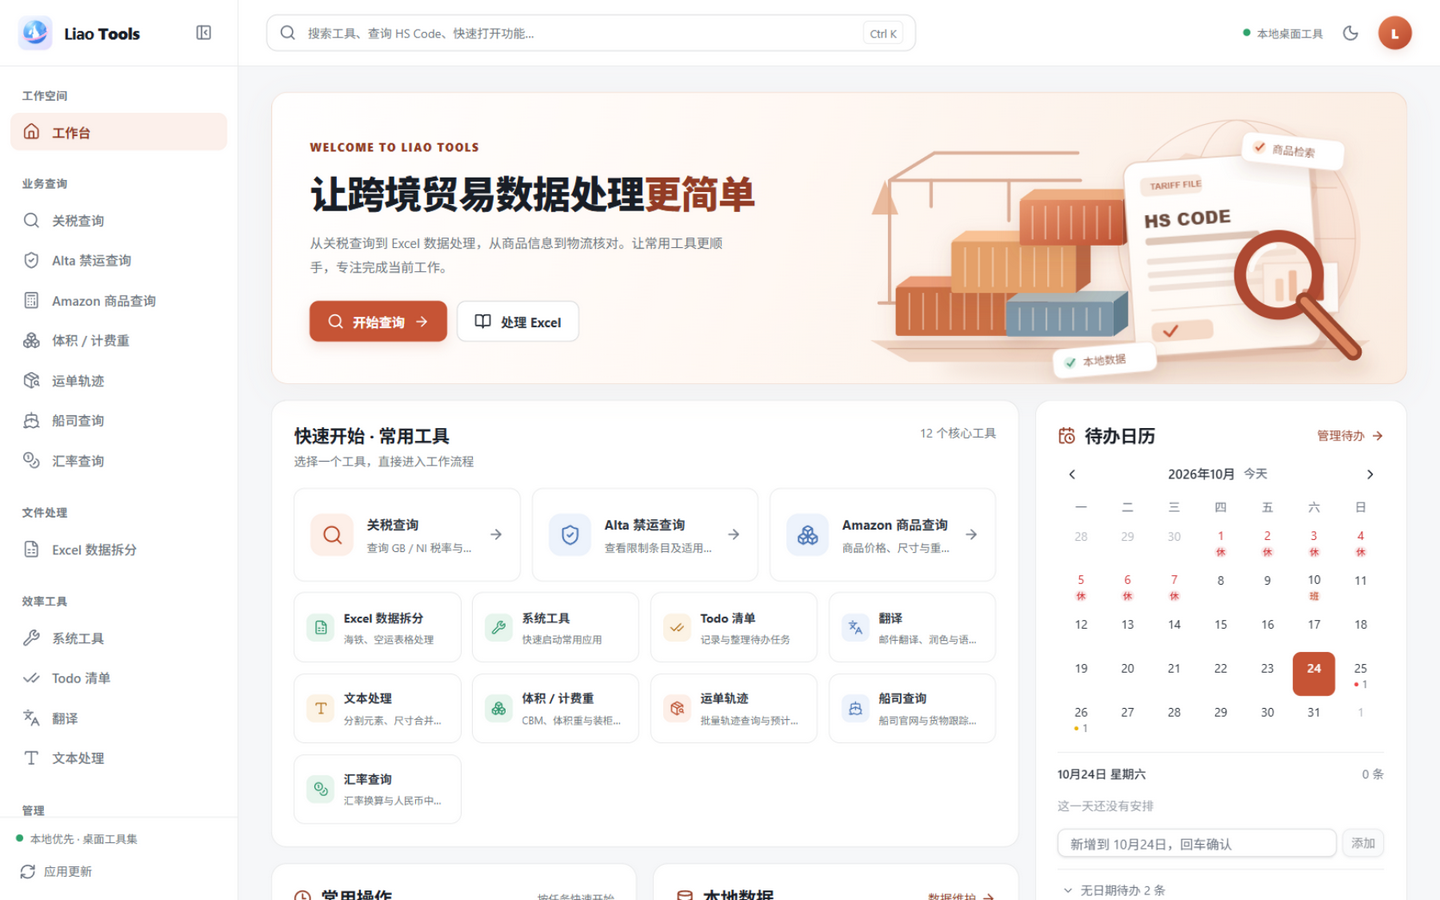
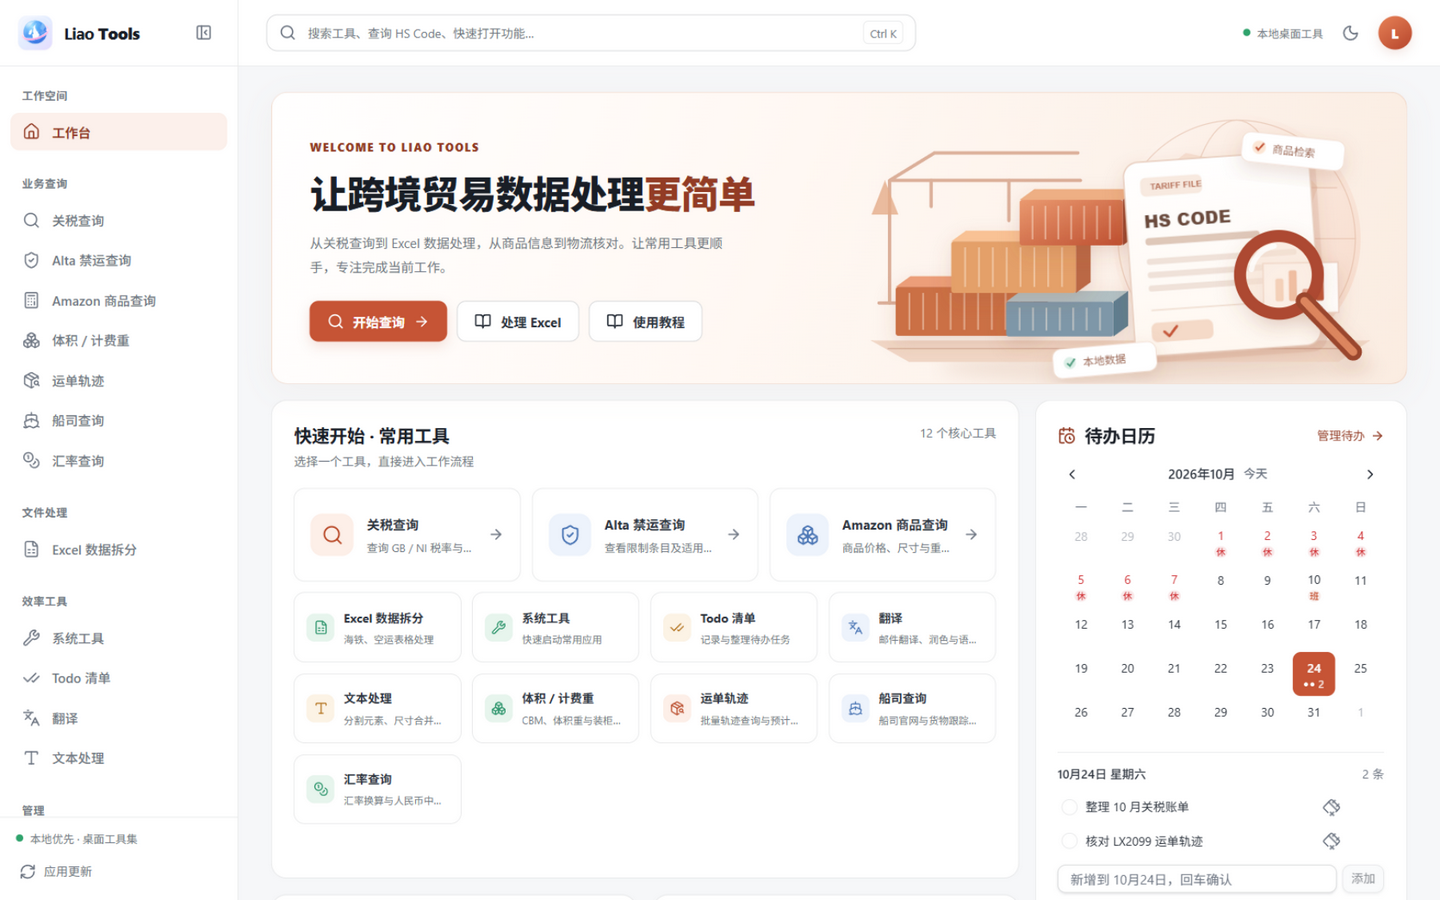
docs: 工作台页补充「使用教程」入口与系统工具链接

diff --git a/website/guide/home.md b/website/guide/home.md
@@ -14,9 +14,9 @@ title: 工作台
 
 ### 认识页面布局
 
-工作台从上到下依次是：顶部欢迎区（两个快捷按钮）、「快速开始 · 常用工具」卡片网格、右栏的「待办日历」与「最近翻译」，以及底部的「常用操作」和「本地数据」面板。
+工作台从上到下依次是：顶部欢迎区（三个快捷按钮）、「快速开始 · 常用工具」卡片网格、右栏的「待办日历」与「最近翻译」，以及底部的「常用操作」和「本地数据」面板。
 
-![工作台概览：顶部搜索栏、欢迎区的「开始查询」「处理 Excel」按钮、「快速开始 · 常用工具」卡片和右栏待办日历](/images/home/01-overview.png)
+![工作台概览：顶部搜索栏、欢迎区的「开始查询」「处理 Excel」「使用教程」按钮、「快速开始 · 常用工具」卡片和右栏待办日历](/images/home/01-overview.png)
 
 ### 用顶部搜索快速打开工具
 
@@ -30,7 +30,8 @@ title: 工作台
 
 1. 点击欢迎区的「开始查询」按钮，进入「英国 / 北爱尔兰关税查询」页。
 2. 点击旁边的「处理 Excel」按钮，进入「Excel 数据拆分」页。
-3. 在「快速开始 · 常用工具」区点击任意一张卡片，直接进入对应功能。12 张卡片依次为：关税查询、Alta 禁运查询、Amazon 商品查询、Excel 数据拆分、系统工具、Todo 清单、翻译、文本处理、体积 / 计费重、运单轨迹、船司查询、汇率查询。每张卡片有一行小字说明用途，例如「关税查询」对应「查询 GB / NI 税率与来源状态」。
+3. 点击「使用教程」按钮，会在浏览器中打开本页对应的在线教程（即当前页面），方便边看教程边操作。
+4. 在「快速开始 · 常用工具」区点击任意一张卡片，直接进入对应功能。12 张卡片依次为：关税查询、Alta 禁运查询、Amazon 商品查询、Excel 数据拆分、系统工具、Todo 清单、翻译、文本处理、体积 / 计费重、运单轨迹、船司查询、汇率查询。每张卡片有一行小字说明用途，例如「关税查询」对应「查询 GB / NI 税率与来源状态」。
 
 ### 用「常用操作」直达批量任务
 
@@ -99,4 +100,5 @@ title: 工作台
 - [英国 / 北爱尔兰关税查询](/guide/tax)：「开始查询」与「批量税率查询」的落点，单码与批量税率查询。
 - [Alta 禁运商品查询](/guide/alta)：「批量禁运筛查」的落点，用同一套 HS Code 做禁运检查。
 - [Excel 数据拆分](/guide/excel)：「处理 Excel」入口对应的功能，处理海铁、空运表格。
+- [系统工具](/guide/system-tools)：「快速开始 · 常用工具」12 张卡片中的一张，快速启动常用应用，也可添加自定义工具。
 - [数据维护](/guide/data-maintenance)：「本地数据」面板「数据维护」链接的完整教程。
